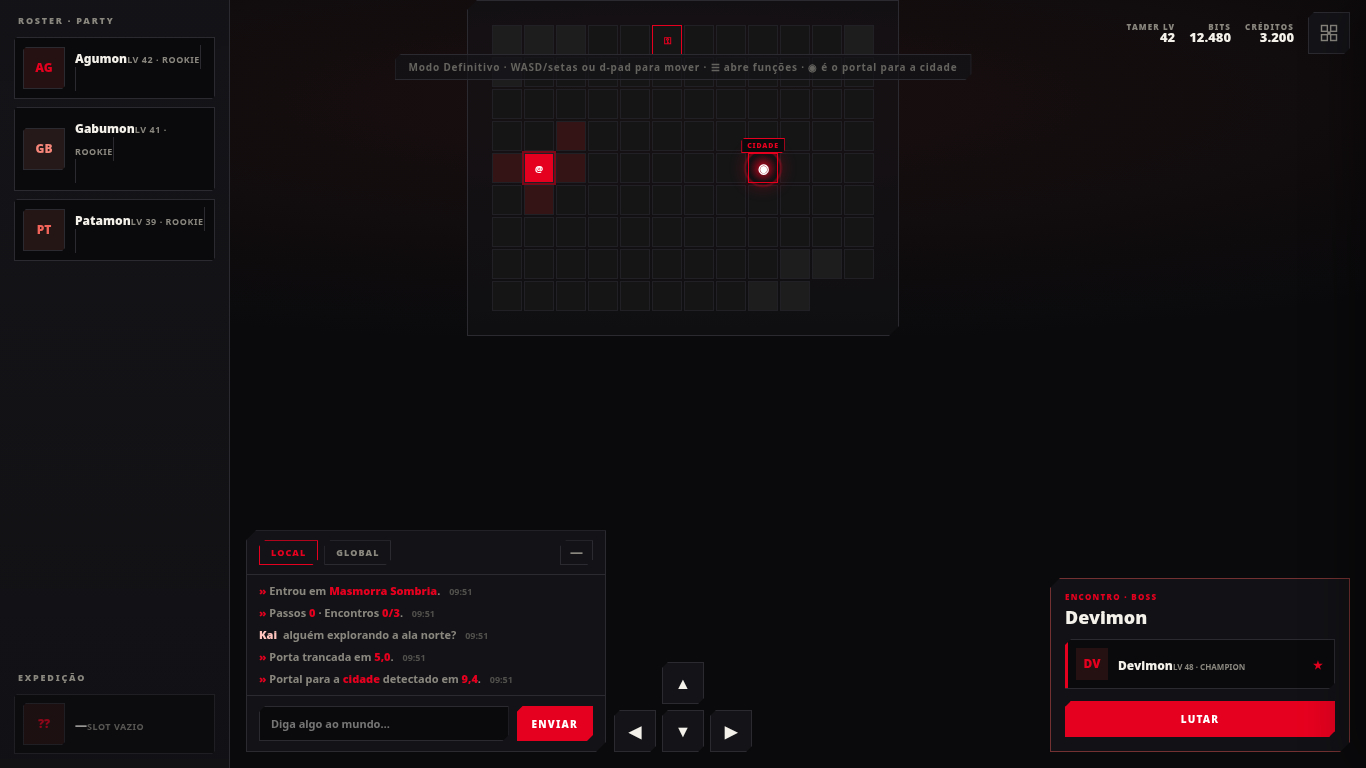
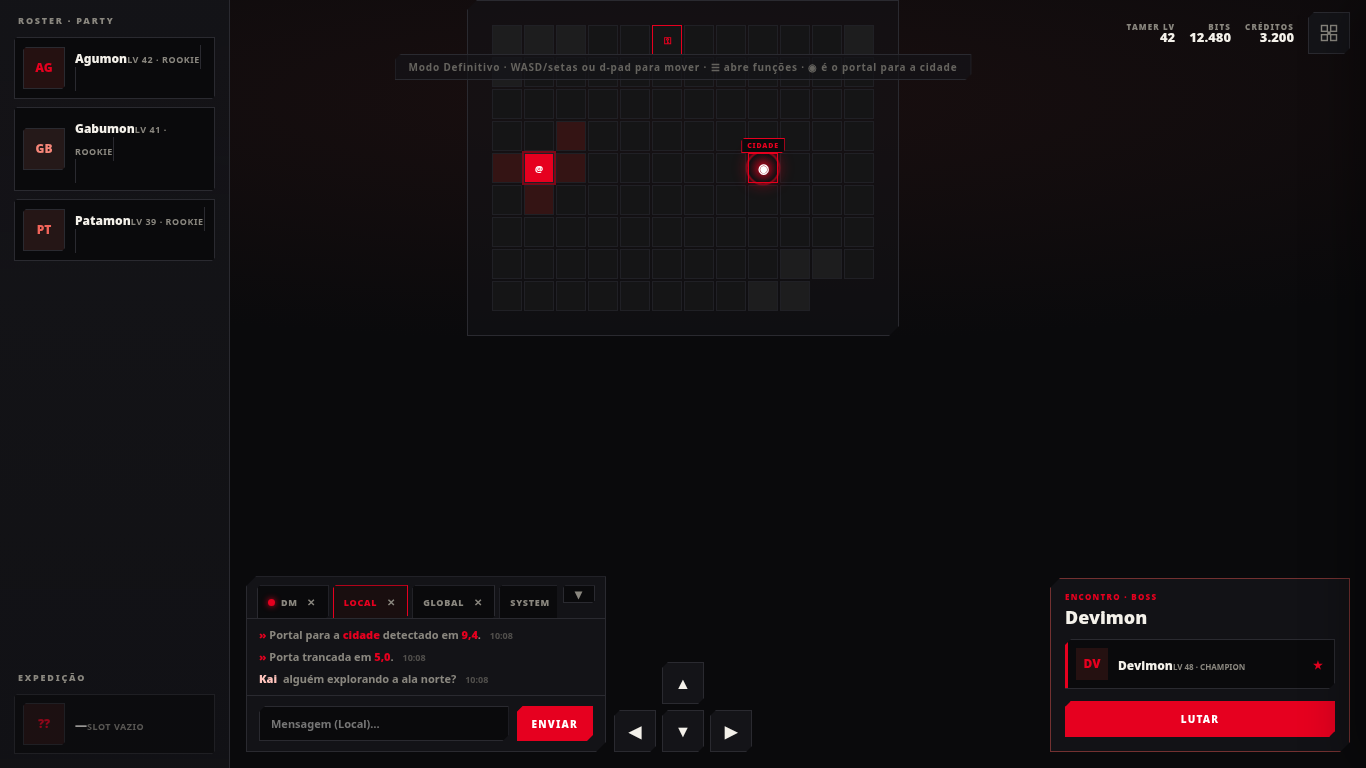
spike(dungeon): chat com 4 abas (DM/Local/Global/System), fechar/reabrir individual, minimizar p/ icone
Estende o spike 001 do chat MMO:
- 4 abas: Direct Message, Local, Global, System (cada uma filtravel).
- X em cada aba fecha APENAS aquela aba; botao '+' reabre a aba
  fechada especifica (LIFO).
- Minimizar tudo esconde o chat e mostra icone de mensagem (balao) no
  canto interior esquerdo (ao lado do roster), com badge de nao-lidas.
- System e read-only (input desabilitado); DM/Local/Global enviam na aba.
- Historico de andar vai para System/Local como msg de sistema.
- shoot.mjs valida: 0 erros, troca de aba, fechar, reabrir (+), minimizar
  (icone), reabrir do icone, fluxo de portal. README atualizado.

diff --git a/spikes/001-dungeon-definitive-hud/hud.html b/spikes/001-dungeon-definitive-hud/hud.html
@@ -65,22 +65,40 @@
   .cell.portal .badge-cidade{position:absolute;top:-16px;left:50%;transform:translateX(-50%);white-space:nowrap;font:800 7px/1 var(--font);letter-spacing:.12em;text-transform:uppercase;color:var(--signal);background:var(--bg);border:1px solid var(--signal);clip-path:var(--notch-xs-clip);padding:3px 5px;pointer-events:none;}
 
   /* ===== chat baixo-esquerdo (estilo MMO clássico) ===== */
-  .chat{position:fixed;left:246px;bottom:16px;z-index:35;width:min(360px,calc(100vw - 270px));display:flex;flex-direction:column;max-height:40vh;background:color-mix(in oklab,var(--panel) 94%,transparent);border:1px solid var(--hair);clip-path:var(--notch-clip);backdrop-filter:blur(6px);box-shadow:0 16px 44px color-mix(in oklab,black 30%,transparent);}
-  .chat.min{height:42px;max-height:42px;}
-  .chat .chead{display:flex;align-items:center;justify-content:space-between;gap:8px;padding:9px 12px;border-bottom:1px solid var(--hair);}
-  .chat .chead .ctabs{display:flex;gap:6px;}
-  .chat .chead .ctabs button{font:800 9px/1 var(--font);letter-spacing:.12em;text-transform:uppercase;color:var(--muted);border:1px solid var(--hair);clip-path:var(--notch-sm-clip);padding:7px 11px;}
-  .chat .chead .ctabs button.is-active{color:var(--el-fire);border-color:var(--el-fire);}
-  .chat .chead .cmin{color:var(--muted);font:800 13px/1 var(--font);padding:5px 9px;border:1px solid var(--hair);clip-path:var(--notch-sm-clip);}
-  .chat .log{flex:1 1 auto;min-height:0;overflow-y:auto;padding:8px 12px;display:flex;flex-direction:column;gap:6px;scrollbar-width:thin;font:600 11px/1.45 var(--font);color:var(--muted);}
+  .chat{position:fixed;left:246px;bottom:16px;z-index:35;width:min(360px,calc(100vw - 270px));display:flex;flex-direction:column;max-height:42vh;background:color-mix(in oklab,var(--panel) 94%,transparent);border:1px solid var(--hair);clip-path:var(--notch-clip);backdrop-filter:blur(6px);box-shadow:0 16px 44px color-mix(in oklab,black 30%,transparent);}
+  .chat.hidden{display:none;}
+  .chat .chead{display:flex;align-items:stretch;gap:6px;padding:8px 10px 0;border-bottom:1px solid var(--hair);}
+  .chat .ctabs{display:flex;gap:4px;flex:1 1 auto;overflow-x:auto;scrollbar-width:none;}
+  .chat .ctabs::-webkit-scrollbar{display:none;}
+  .chat .ctab{display:flex;align-items:center;gap:6px;font:800 9px/1 var(--font);letter-spacing:.08em;text-transform:uppercase;color:var(--muted);background:var(--bg);border:1px solid var(--hair);border-bottom:0;clip-path:var(--notch-xs-clip);padding:8px 8px 8px 10px;white-space:nowrap;transition:color .1s,border-color .1s;}
+  .chat .ctab:hover{color:var(--ink);}
+  .chat .ctab.is-active{color:var(--el-fire);border-color:var(--el-fire);background:color-mix(in oklab,var(--el-fire) 8%,var(--bg));}
+  .chat .ctab .x{display:grid;place-items:center;width:16px;height:16px;font:800 10px/1 var(--font);color:var(--muted);border-radius:9px;}
+  .chat .ctab .x:hover{color:var(--signal);background:color-mix(in oklab,var(--signal) 18%,transparent);}
+  .chat .ctab-add{display:none;align-self:center;font:800 14px/1 var(--font);color:var(--muted);background:var(--bg);border:1px dashed var(--hair);clip-path:var(--notch-xs-clip);width:26px;height:26px;margin-left:2px;}
+  .chat .ctab-add.show{display:grid;place-items:center;}
+  .chat .ctab-add:hover{color:var(--el-fire);border-color:var(--el-fire);}
+  .chat .ctab .dot{width:7px;height:7px;border-radius:50%;background:var(--signal);box-shadow:0 0 6px var(--signal);}
+  .chat .chead .cmin{color:var(--muted);font:800 14px/1 var(--font);width:34px;display:grid;place-items:center;align-self:flex-start;background:var(--bg);border:1px solid var(--hair);clip-path:var(--notch-xs-clip);}
+  .chat .chead .cmin:hover{color:var(--el-fire);border-color:var(--el-fire);}
+  .chat .log{flex:1 1 auto;min-height:0;overflow-y:auto;padding:8px 12px;display:flex;flex-direction:column;gap:6px;scrollbar-width:thin;font:600 11px/1.45 var(--font);color:var(--muted);max-height:30vh;}
   .chat .log .sys{color:var(--muted);}
   .chat .log .sys b{color:var(--el-fire);}
   .chat .log .me .from{color:var(--el-electricity);font-weight:800;margin-right:6px;}
   .chat .log .white .from{color:var(--el-light);font-weight:800;margin-right:6px;}
+  .chat .log .dm{color:var(--el-water);}
+  .chat .log .dm .from{color:var(--el-water);font-weight:800;margin-right:6px;}
   .chat .log .time{color:color-mix(in oklab,var(--muted) 60%,var(--bg));font-size:9px;margin-left:6px;}
   .chat .cform{display:flex;gap:8px;padding:10px 12px;border-top:1px solid var(--hair);}
   .chat .cform input{flex:1 1 auto;min-width:0;background:var(--bg);border:1px solid var(--hair);clip-path:var(--notch-sm-clip);color:var(--ink);padding:9px 11px;font:600 11px/1 var(--font);}
   .chat .cform button{background:var(--signal);color:#fff;border:1px solid var(--signal);clip-path:var(--notch-sm-clip);font:800 10px/1 var(--font);letter-spacing:.12em;text-transform:uppercase;padding:0 14px;}
+
+  /* ===== ícone de reabrir chat (minimizado) ===== */
+  .chat-reopen{position:fixed;left:246px;bottom:14px;z-index:36;width:48px;height:48px;display:none;place-items:center;background:var(--panel);border:1px solid var(--hair);clip-path:var(--notch-sm-clip);color:var(--muted);box-shadow:0 12px 32px color-mix(in oklab,black 32%,transparent);}
+  .chat-reopen:hover{color:var(--el-fire);border-color:var(--el-fire);}
+  .chat-reopen.show{display:grid;}
+  .chat-reopen svg{width:22px;height:22px;}
+  .chat-reopen .badge{position:absolute;top:-4px;right:-4px;min-width:16px;height:16px;padding:0 4px;background:var(--signal);color:#fff;font:800 9px/16px var(--font);text-align:center;border-radius:9px;}
 
   /* ===== d-pad baixo centro ===== */
   .dpad{position:fixed;left:50%;bottom:16px;transform:translateX(-50%);z-index:35;display:grid;grid-template-columns:repeat(3,42px);grid-template-rows:repeat(2,42px);gap:6px;}
@@ -153,6 +171,7 @@
   @media (max-width:900px){
     .roster{width:130px;padding:10px;gap:6px;}
     .chat{left:146px;width:calc(100vw - 170px);}
+    .chat-reopen{left:146px;}
     .enc{width:calc(100vw - 170px);}
   }
 </style>
@@ -188,11 +207,14 @@
   <!-- chat baixo esquerdo -->
   <section class="chat" id="chat">
     <div class="chead">
-      <div class="ctabs">
-        <button class="is-active" data-ch="local">Local</button>
-        <button data-ch="global">Global</button>
+      <div class="ctabs" id="ctabs">
+        <button class="ctab" data-ch="dm"><span class="dot" id="dot-dm" style="display:none"></span>DM<span class="x" data-x="dm" aria-label="Fechar DM">✕</span></button>
+        <button class="ctab is-active" data-ch="local">Local<span class="x" data-x="local" aria-label="Fechar Local">✕</span></button>
+        <button class="ctab" data-ch="global">Global<span class="x" data-x="global" aria-label="Fechar Global">✕</span></button>
+        <button class="ctab" data-ch="system">System<span class="x" data-x="system" aria-label="Fechar System">✕</span></button>
+        <button class="ctab-add" id="ctab-add" aria-label="Reabrir aba" title="Reabrir aba fechada">+</button>
       </div>
-      <button class="cmin" id="chat-min" aria-label="Minimizar chat">—</button>
+      <button class="cmin" id="chat-min" aria-label="Minimizar chat" title="Minimizar tudo">▾</button>
     </div>
     <div class="log" id="chat-log" aria-live="polite"></div>
     <form class="cform" id="chat-form">
@@ -200,6 +222,12 @@
       <button type="submit">Enviar</button>
     </form>
   </section>
+
+  <!-- ícone de reabrir chat (minimizado) -->
+  <button class="chat-reopen" id="chat-reopen" aria-label="Abrir chat">
+    <svg viewBox="0 0 24 24" fill="none" stroke="currentColor" stroke-width="1.7"><path d="M21 12a8 8 0 0 1-11.5 7.2L4 20l1-4.8A8 8 0 1 1 21 12z"/></svg>
+    <span class="badge" id="reopen-badge" style="display:none">0</span>
+  </button>
 
   <!-- d-pad -->
   <div class="dpad">
@@ -290,25 +318,120 @@
   }
   render();
 
-  // ---- chat (histórico de andar como mensagens de sistema) ----
+  // ---- chat (4 abas: DM / Local / Global / System) ----
+  const TABS=['dm','local','global','system'];
+  const LABEL={dm:'DM',local:'Local',global:'Global',system:'System'};
+  const store={dm:[],local:[],global:[],system:[]};   // cada msg: {cls,who,html,sys}
+  const closable={dm:true,local:true,global:true,system:true};
+  let activeTab='local';
+  const closed=new Set();                 // abas fechadas pelo X
+  const closedOrder=[];                   // ordem LIFO p/ reabrir (+)
+  let minimized=false;
+  const unread={dm:0,local:0,global:0,system:0};
   const log=document.getElementById('chat-log');
+  const chatEl=document.getElementById('chat');
+  const reopenEl=document.getElementById('chat-reopen');
+  const reopenBadge=document.getElementById('reopen-badge');
+
   function pad(n){return String(n).padStart(2,'0');}
   function now(){const d=new Date();return `${pad(d.getHours())}:${pad(d.getMinutes())}`;}
-  function sys(html){
-    const d=document.createElement('div');d.className='sys';
-    d.innerHTML=`<b>»</b> ${html} <span class="time">${now()}</span>`;
-    log.appendChild(d);log.scrollTop=log.scrollHeight;
+  function rowHtml(m){
+    const t=`<span class="time">${m.t}</span>`;
+    if(m.sys) return `<b>»</b> ${m.html} ${t}`;
+    return `<span class="from">${m.who}</span>${m.html} ${t}`;
   }
-  function say(who,cls,text){
-    const d=document.createElement('div');d.className=cls;
-    d.innerHTML=`<span class="from">${who}</span>${text} <span class="time">${now()}</span>`;
-    log.appendChild(d);log.scrollTop=log.scrollHeight;
+  function push(ch,msg){
+    msg.t=now();
+    store[ch].push(msg);
+    if(minimized || ch!==activeTab || closed.has(ch)){
+      if(!closed.has(ch)){ unread[ch]++; }
+    }
+    if(ch===activeTab && !minimized) renderLog();
+    updateBadges();
   }
-  sys('Entrou em <b>Masmorra Sombria</b>.');
-  sys('Passos <b>0</b> · Encontros <b>0/3</b>.');
-  say('Kai','white','alguém explorando a ala norte?');
-  sys('Porta trancada em <b>5,0</b>.');
-  sys('Portal para a <b>cidade</b> detectado em <b>9,4</b>.');
+  function sys(ch,html){ push(ch,{sys:true,html}); }
+  function say(ch,who,cls,text){ push(ch,{cls,who,html:text}); }
+  function renderLog(){
+    log.innerHTML='';
+    for(const m of store[activeTab]){
+      const d=document.createElement('div');
+      d.className=(m.sys?'sys':(m.cls||''));
+      d.innerHTML=rowHtml(m);
+      log.appendChild(d);
+    }
+    log.scrollTop=log.scrollHeight;
+  }
+  function renderTabs(){
+    document.querySelectorAll('.ctab').forEach(b=>{
+      const ch=b.dataset.ch;
+      const hide=closed.has(ch);
+      b.style.display=hide?'none':'flex';
+      b.classList.toggle('is-active',ch===activeTab && !hide);
+    });
+    // se a aba ativa foi fechada, cai na primeira aba aberta
+    if(closed.has(activeTab)){
+      const next=TABS.find(c=>!closed.has(c));
+      if(next){activeTab=next;renderTabs();}
+    }
+    document.getElementById('ctab-add').classList.toggle('show',closed.size>0);
+    if(!closed.has(activeTab)) renderLog();
+  }
+  function updateBadges(){
+    // badge de não-lidas por aba (ponto)
+    for(const ch of TABS){
+      const dot=document.getElementById('dot-'+ch);
+      if(dot) dot.style.display=(unread[ch]>0 && ch!==activeTab)?'inline-block':'none';
+    }
+    const total=unread.dm+unread.local+unread.global+unread.system;
+    reopenBadge.style.display=(minimized && total>0)?'inline-block':'none';
+    reopenBadge.textContent=String(total);
+  }
+  function openTab(ch){ closed.delete(ch); unread[ch]=0; activeTab=ch; if(minimized)toggleMin(); renderTabs(); updateBadges(); }
+
+  // trocar de aba
+  document.querySelectorAll('.ctab').forEach(b=>b.addEventListener('click',e=>{
+    if(e.target.classList.contains('x'))return;       // clique no X não troca
+    const ch=b.dataset.ch;
+    if(closed.has(ch))return;
+    activeTab=ch; unread[ch]=0; renderTabs(); updateBadges();
+  }));
+  // fechar aba específica (X)
+  document.querySelectorAll('.ctab .x').forEach(x=>x.addEventListener('click',e=>{
+    e.stopPropagation();
+    const ch=x.dataset.x;
+    closed.add(ch);
+    closedOrder.push(ch);
+    renderTabs(); updateBadges();
+  }));
+  // reabrir aba específica fechada (LIFO) via botão +
+  const ctabAdd=document.getElementById('ctab-add');
+  ctabAdd.addEventListener('click',()=>{
+    while(closedOrder.length){
+      const ch=closedOrder.pop();
+      if(closed.has(ch)){ closed.delete(ch); break; }
+    }
+    renderTabs(); updateBadges();
+  });
+
+  // minimizar tudo -> ícone de mensagem no canto inferior esquerdo
+  function toggleMin(){
+    minimized=!minimized;
+    chatEl.classList.toggle('hidden',minimized);
+    reopenEl.classList.toggle('show',minimized);
+  }
+  document.getElementById('chat-min').addEventListener('click',()=>{ if(!minimized)toggleMin(); });
+  reopenEl.addEventListener('click',()=>{ if(minimized)toggleMin(); });
+
+  // mensagens iniciais (histórico de andar -> System + Local)
+  sys('system','Entrou em <b>Masmorra Sombria</b>.');
+  sys('system','Passos <b>0</b> · Encontros <b>0/3</b>.');
+  sys('local','Portal para a <b>cidade</b> detectado em <b>9,4</b>.');
+  sys('local','Porta trancada em <b>5,0</b>.');
+  say('local','Kai','white','alguém explorando a ala norte?');
+  say('global','Ryo','me','tô caçando um Devimon na planta 3, alguém topa?');
+  say('dm','Kai','dm','<b>(DM)</b> quer formar party pro boss?');
+  renderTabs(); updateBadges();
+
 
   let step=0, defeated=0;
   function move(dx,dy){
@@ -316,12 +439,12 @@
     const nx=px+dx, ny=py+dy;
     if(nx<0||ny<0||nx>=W||ny>=H)return;
     const k=`${nx},${ny}`;
-    if(walls.has(k)){sys('Bloqueado por parede.');return;}
+    if(walls.has(k)){sys('local','Bloqueado por parede.');return;}
     px=nx;py=ny;step++;
     if(nx===portal.x&&ny===portal.y){render();openExit();return;}
-    if(doors.has(k)){sys(`Tentou abrir porta em <b>${nx},${ny}</b> — precisa de chave.`);render();return;}
-    if(encs.has(k)){sys(`<b>Amboscada!</b> Inimigo em ${nx},${ny}.`);defeated++;render();return;}
-    sys(`Moveu para <b>${nx},${ny}</b>. Passos <b>${step}</b> · Encontros <b>${defeated}/3</b>.`);
+    if(doors.has(k)){sys('local',`Tentou abrir porta em <b>${nx},${ny}</b> — precisa de chave.`);render();return;}
+    if(encs.has(k)){sys('local',`<b>Amboscada!</b> Inimigo em ${nx},${ny}.`);defeated++;render();return;}
+    sys('local',`Moveu para <b>${nx},${ny}</b>. Passos <b>${step}</b> · Encontros <b>${defeated}/3</b>.`);
     render();
   }
   document.querySelectorAll('.dpad button').forEach(b=>b.addEventListener('click',()=>move(+b.dataset.dx,+b.dataset.dy)));
@@ -331,20 +454,24 @@
     if(map[e.key]){e.preventDefault();move(...map[e.key]);}
   });
 
-  // ---- minimizar chat ----
-  document.getElementById('chat-min').addEventListener('click',()=>document.getElementById('chat').classList.toggle('min'));
-  // ---- trocar aba ----
-  document.querySelectorAll('.ctabs button').forEach(b=>b.addEventListener('click',()=>{
-    document.querySelectorAll('.ctabs button').forEach(x=>x.classList.remove('is-active'));
-    b.classList.add('is-active');
-  }));
-  // ---- enviar mensagem ----
-  document.getElementById('chat-form').addEventListener('submit',e=>{
+  // ---- enviar mensagem (na aba ativa; System é read-only) ----
+  const chatForm=document.getElementById('chat-form');
+  const chatInput=document.getElementById('chat-input');
+  function refreshInputForTab(){
+    const sys=activeTab==='system';
+    chatInput.disabled=sys; chatInput.placeholder=sys?'System é somente-leitura':`Mensagem (${LABEL[activeTab]})…`;
+    chatForm.querySelector('button').disabled=sys;
+  }
+  document.querySelectorAll('.ctab').forEach(b=>b.addEventListener('click',()=>{ if(!closed.has(b.dataset.ch)) refreshInputForTab(); }));
+  chatForm.addEventListener('submit',e=>{
     e.preventDefault();
-    const i=document.getElementById('chat-input');
-    const v=i.value.trim(); if(!v)return;
-    say('Você','me',v); i.value='';
+    const v=chatInput.value.trim(); if(!v||activeTab==='system')return;
+    if(activeTab==='dm') say('dm','Você','dm',`<b>(DM)</b> ${v}`);
+    else if(activeTab==='global') say('global','Você','me',v);
+    else say('local','Você','me',v);
+    chatInput.value='';
   });
+  refreshInputForTab();
 
   // ---- drawer de funções ----
   const FNS=[
@@ -387,20 +514,20 @@
   const exitBg=document.getElementById('exit-bg');
   function openExit(){
     exitBg.classList.add('open');
-    sys('<b>Portal para a cidade</b> à frente. Confirme para atravessar.');
+    sys('local','<b>Portal para a cidade</b> à frente. Confirme para atravessar.');
   }
   function closeExit(){exitBg.classList.remove('open');}
   document.getElementById('exit-go').addEventListener('click',()=>{
     closeExit();
-    sys('Você atravessou o <b>portal</b>. Retornando à cidade…');
+    sys('local','Você atravessou o <b>portal</b>. Retornando à cidade…');
     document.getElementById('leftscreen').classList.add('open');
   });
   document.getElementById('exit-stay').addEventListener('click',closeExit);
   document.getElementById('exit-re').addEventListener('click',()=>{
     document.getElementById('leftscreen').classList.remove('open');
     px=2;py=4;step=0;defeated=0;render();
-    sys('Reentrou na <b>Masmorra Sombria</b>.');
-    sys('Passos <b>0</b> · Encontros <b>0/3</b>.');
+    sys('local','Reentrou na <b>Masmorra Sombria</b>.');
+    sys('local','Passos <b>0</b> · Encontros <b>0/3</b>.');
   });
 </script>
 </body>

diff --git a/spikes/001-dungeon-definitive-hud/README.md b/spikes/001-dungeon-definitive-hud/README.md
@@ -27,16 +27,20 @@ design tokens reais de `frontend/src/styles/tokens.css`. O grid é fake; o foco 
 
 ## Checagens estruturais (Playwright)
 ```
-{"errors":[],"modalOpen":true,"leftOpen":true}
+{"errors":[],"globalVisible":true,"addShown":true,"reopened":["dm","global","system"],
+ "minimized":{"chatHidden":true,"iconShown":true},"reopenedAll":true,"modalOpen":true,"leftOpen":true}
 ```
 - Roster fixo na esquerda ✅
-- Chat estilo MMO no baixo-esquerdo (abas Local/Global, minimizar, input) ✅
+- Chat estilo MMO no baixo-esquerdo (4 abas: DM/Local/Global/System) ✅
+- **Cada aba tem X para fechar (fecha só aquela aba)** ✅
+- **Botão "+" reabre a aba fechada específica (LIFO)** ✅
+- **Minimizar tudo vira ícone de mensagem no canto interior esquerdo** (ao lado do roster) ✅
+- **Badge de não-lidas no ícone de reabrir** (soma das abas) ✅
 - Ícone de funções no topo direito ✅
 - Drawer com 8 funções (6 reais + Amigos/Guilda "EM BREVE") ✅
-- Histórico de andar como mensagens de sistema no chat (não mais rail) ✅
-- **Portal de saída** (oval vermelho pulsante + badge CIDADE) no canto oposto ao spawn ✅
-- **Fluxo de saída**: ao pisar no portal abre "Usar o portal para a cidade?" (Atravessar/Ficar);
-  "Atravessar" -> "Retornando à Cidade" ✅
+- Histórico de andar como mensagens de sistema (na aba System/Local) ✅
+- Portal de saída (oval vermelho pulsante + badge CIDADE) ✅
+- Fluxo de saída: ao pisar no portal abre "Usar o portal para a cidade?"; "Atravessar" -> "Retornando à Cidade" ✅
 
 ## Verdict: VALIDATED
 
